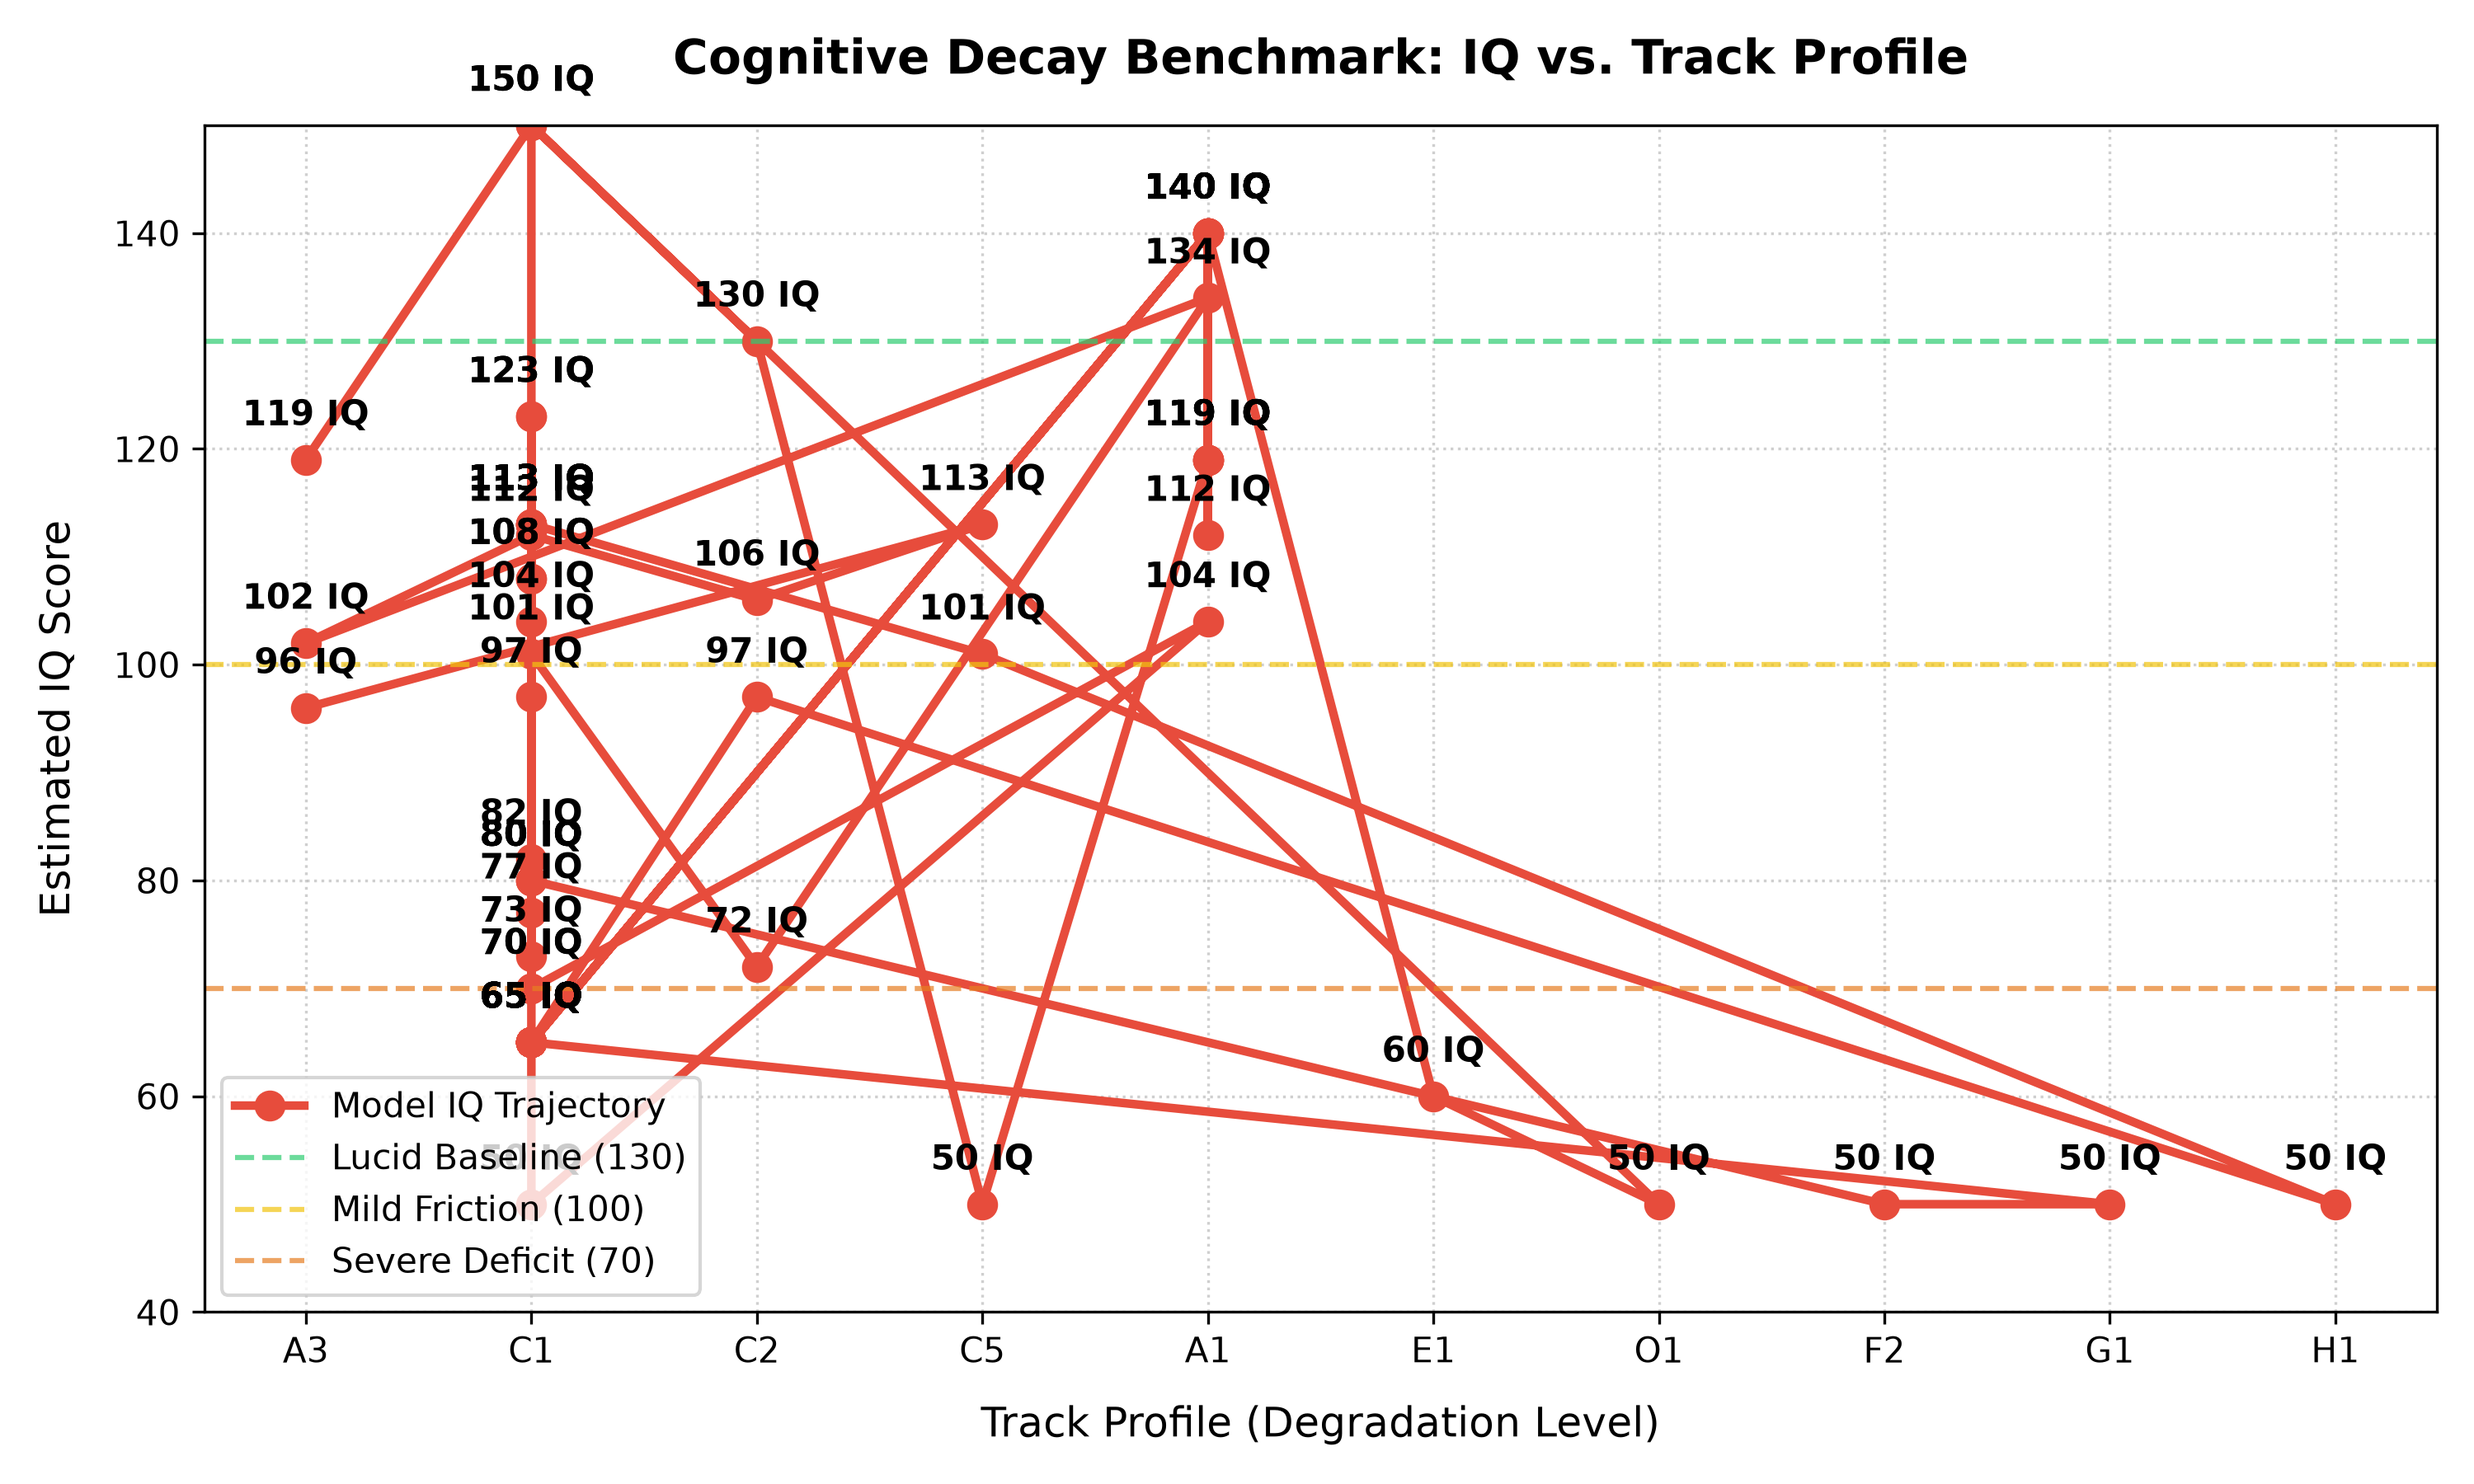
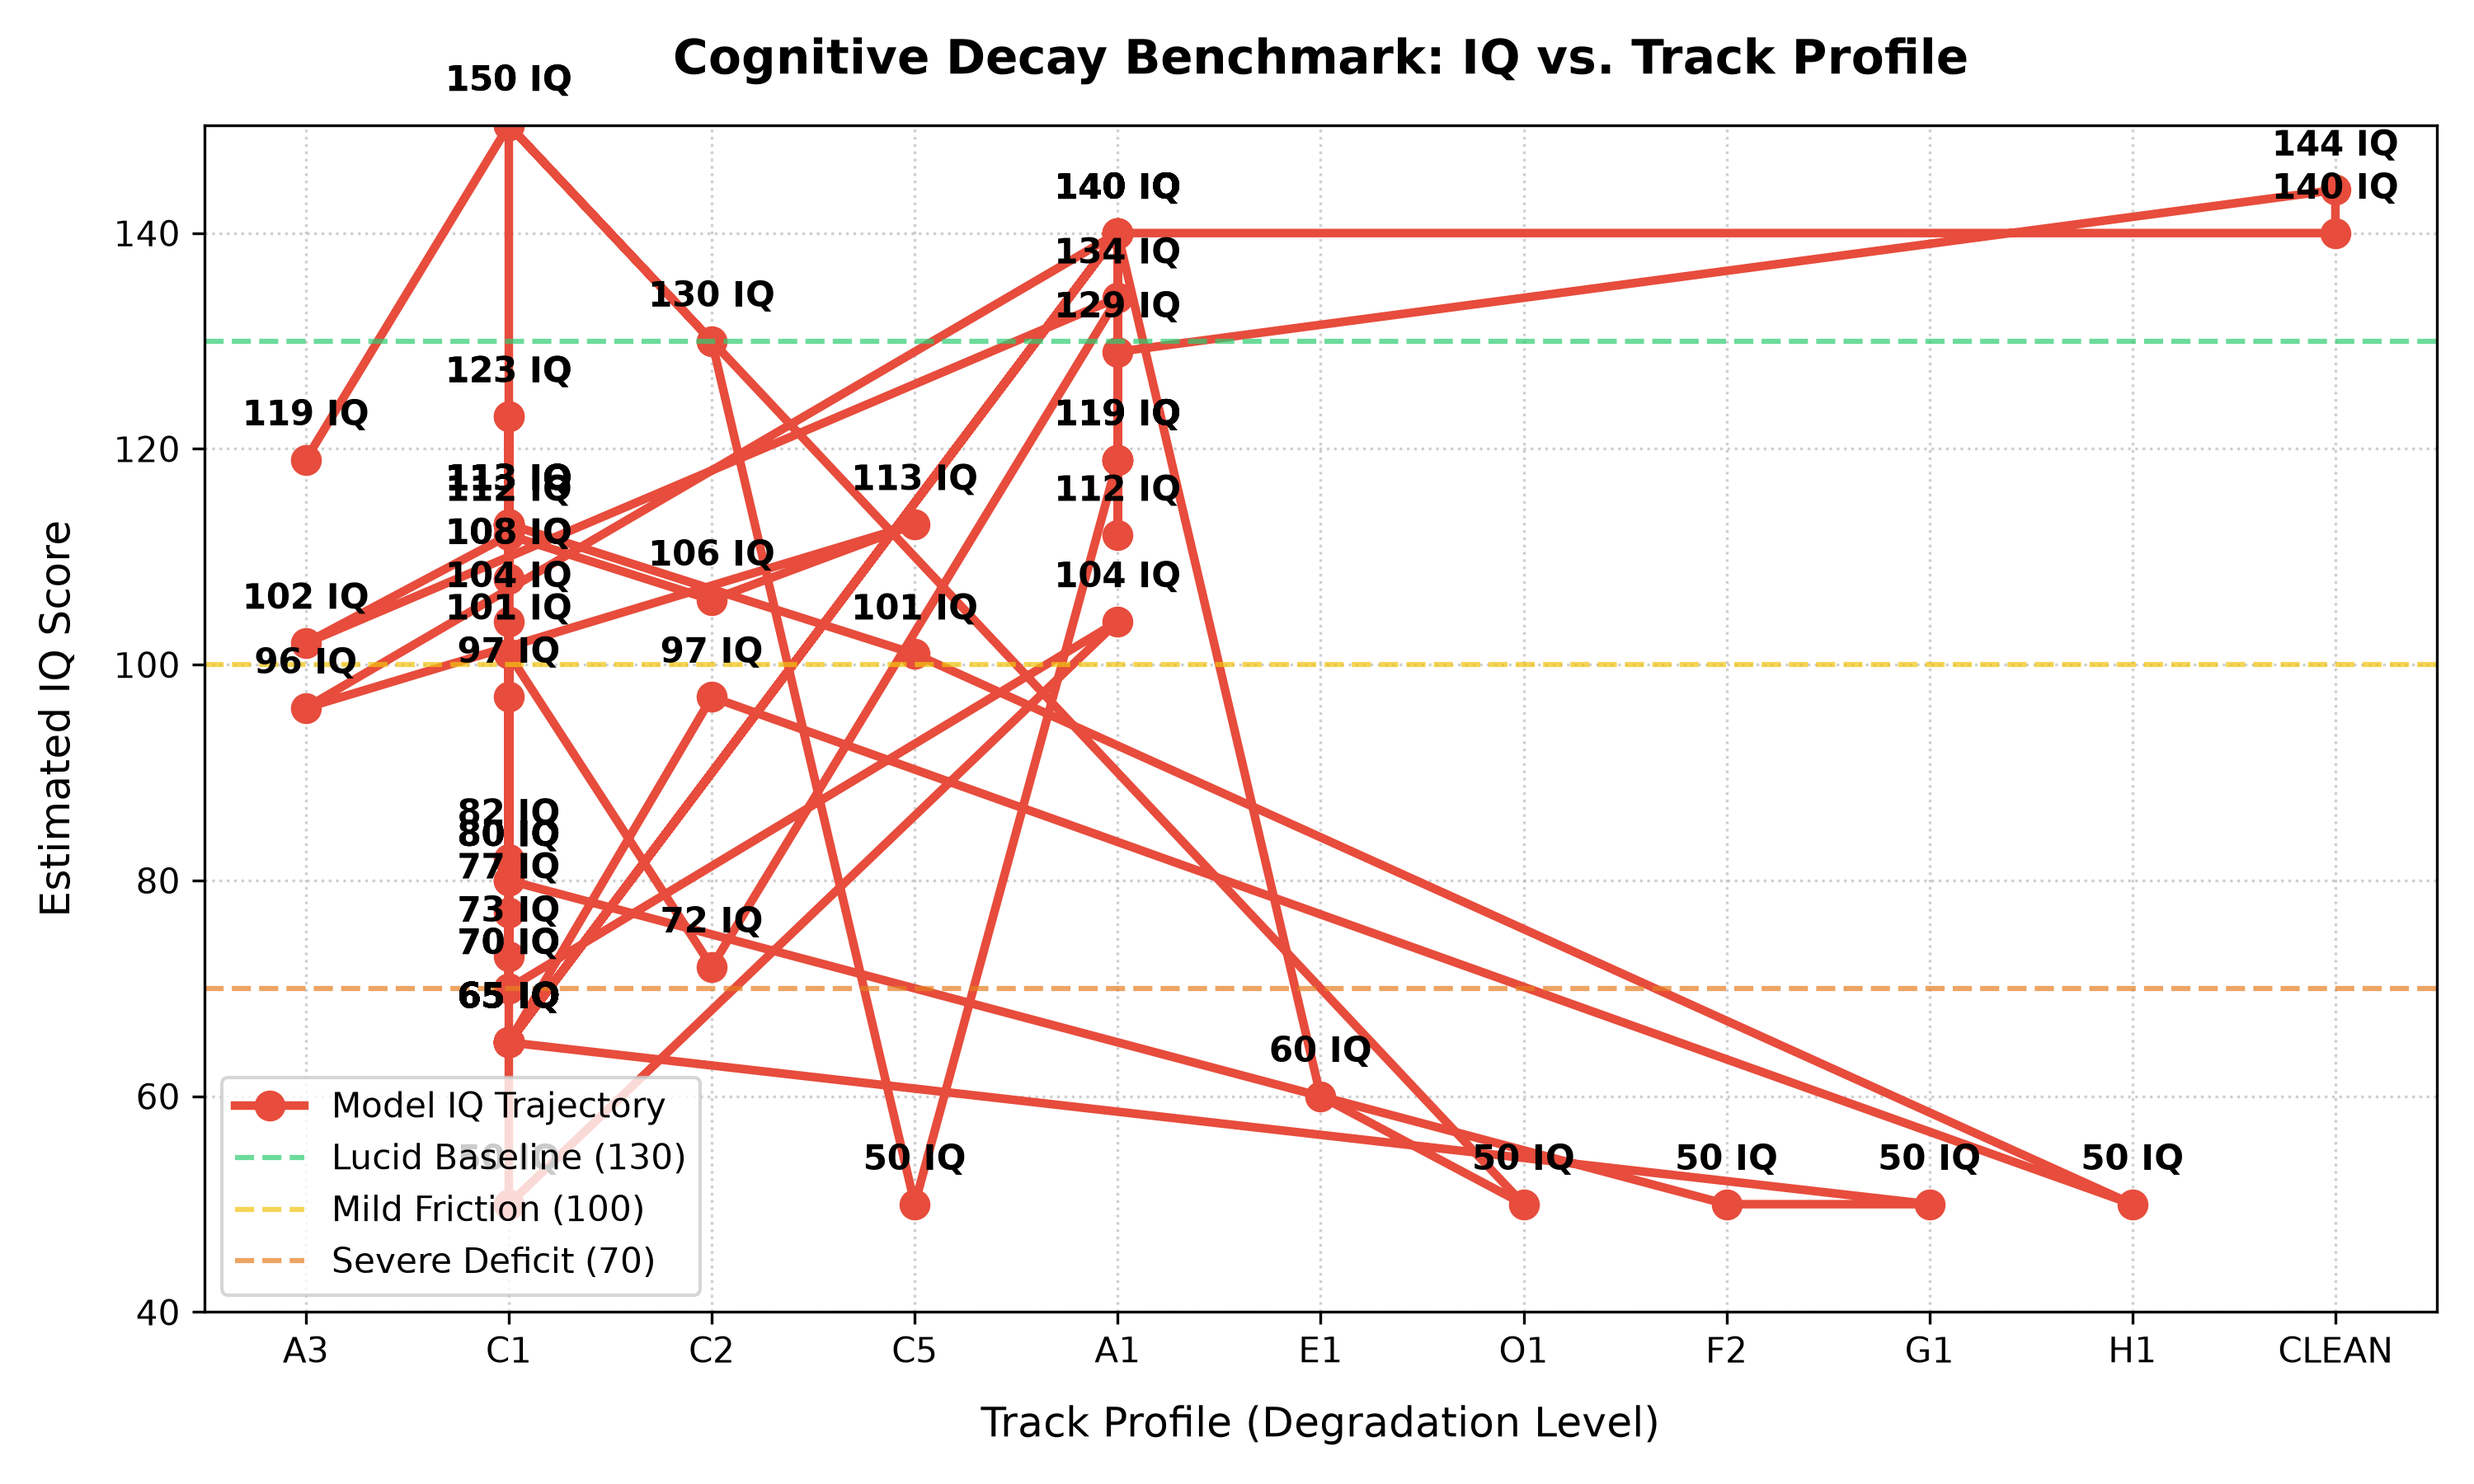
reset_graphs

diff --git a/tests/test_paths.py b/tests/test_paths.py
@@ -1,0 +1,66 @@
+"""Unit tests for ``eateot.paths.clear_charts`` (the lab's CLEAR GRAPHS action).
+
+Redirects ``EATEOT_DATA_DIR`` at a temp folder so the tests never touch the
+real ``outputs/`` directory, then reloads the module so its constants resolve
+against the override.
+"""
+
+import importlib
+import os
+import sys
+import tempfile
+import unittest
+from pathlib import Path
+from unittest import mock
+
+# tests/test_paths.py -> repo root (so `import eateot` works without install).
+ROOT = Path(__file__).resolve().parents[1]
+if str(ROOT) not in sys.path:
+    sys.path.insert(0, str(ROOT))
+
+import eateot.paths as paths
+
+
+class TestClearCharts(unittest.TestCase):
+    def setUp(self):
+        self.tmp = tempfile.TemporaryDirectory()
+        self.addCleanup(self.tmp.cleanup)
+        self.env = mock.patch.dict(
+            os.environ, {"EATEOT_DATA_DIR": self.tmp.name}, clear=False
+        )
+        self.env.start()
+        self.addCleanup(self.env.stop)
+        importlib.reload(paths)  # re-resolve DATA_DIR / CHART_FILES
+
+    def tearDown(self):
+        importlib.reload(paths)  # restore default DATA_DIR for other tests
+
+    def test_removes_existing_charts_only(self):
+        existing = paths.CHART_FILES[:3]
+        for chart in existing:
+            Path(chart).write_text("stale chart", encoding="utf-8")
+        missing = paths.CHART_FILES[3]
+        self.assertFalse(Path(missing).exists())
+
+        removed = paths.clear_charts()
+
+        self.assertEqual(sorted(removed), sorted(existing))
+        for chart in existing:
+            self.assertFalse(Path(chart).exists())
+        self.assertFalse(Path(missing).exists())
+
+    def test_no_charts_returns_empty(self):
+        self.assertEqual(paths.clear_charts(), [])
+
+    def test_chart_list_covers_all_generated_pngs(self):
+        # Every study chart is a *_png constant; keep the list in sync.
+        png_constants = [
+            "IMG_FILE", "COMPARISON_PNG", "RESTORE_PNG", "TRAJECTORY_PNG",
+            "RESERVE_PNG", "TRIP_PNG", "DRUG_REPORT_PNG", "SENSITIVITY_PNG",
+        ]
+        expected = {getattr(paths, name) for name in png_constants}
+        self.assertEqual(set(paths.CHART_FILES), expected)
+
+
+if __name__ == "__main__":
+    unittest.main()

diff --git a/apps/lab.py b/apps/lab.py
@@ -307,7 +307,7 @@ def main():
         print("\n────────── ⚙  SETTINGS ──────────")
         print("  [D] Decay Multiplier  [T] Target Sub-Network")
         print("  [F] Flicker  [S] Sirens  [L] Lucidity Surge")
-        print("  [R] 🔄 FULL RESET  [X] Exit")
+        print("  [W] 🗑 CLEAR GRAPHS  [R] 🔄 FULL RESET  [X] Exit")
         print("==================================================================")
 
         track_choice = input("▸ ").strip().upper()
@@ -326,6 +326,21 @@ def main():
             lab.restore_clean_state()
             print("\n[✓] FULL RESET: settings, toggles, weights & drug cleared.\n")
             input("Press ENTER to continue...")
+            continue
+        elif track_choice == "W":
+            # Delete every generated chart PNG so studies can be re-run for
+            # fresh graphs. Telemetry logs + reports are kept.
+            from eateot.paths import clear_charts
+            removed = clear_charts()
+            if removed:
+                print(f"\n[✓] CLEARED GRAPHS: removed {len(removed)} chart(s).\n")
+                for chart in removed:
+                    print(f"    🗑 {chart}")
+                print("\nRun a study ([1]–[8]) to generate fresh graphs.")
+            else:
+                print("\n[✓] No generated charts to clear — run a study ([1]–[8]) to create some.")
+            print()
+            input("Press ENTER to return to menu...")
             continue
 
         # ── Settings ──────────────────────────────────────────────────────
@@ -646,7 +661,7 @@ def main():
             input("Press ENTER to return to menu...")
             continue
         else:
-            print("[-] Invalid selection! Type a track name (A1, C5…), a letter command (I, Q, E, P, G, D, T, F, S, L, R, X), or a study number (1–8).")
+            print("[-] Invalid selection! Type a track name (A1, C5…), a letter command (I, Q, E, P, G, D, T, F, S, L, W, R, X), or a study number (1–8).")
             continue
 
 

diff --git a/src/eateot/paths.py b/src/eateot/paths.py
@@ -45,6 +45,36 @@ SENSITIVITY_MD = str(DATA_DIR / "sensitivity_report.md")
 SENSITIVITY_JSON = str(DATA_DIR / "sensitivity_report.json")
 SENSITIVITY_PNG = str(DATA_DIR / "sensitivity_decay.png")
 
+# Every chart image generated by the study/report apps. Kept in one place so
+# ``clear_charts`` (the lab's CLEAR GRAPHS action) can wipe all graphs at once.
+CHART_FILES = [
+    IMG_FILE,
+    COMPARISON_PNG,
+    RESTORE_PNG,
+    TRAJECTORY_PNG,
+    RESERVE_PNG,
+    TRIP_PNG,
+    DRUG_REPORT_PNG,
+    SENSITIVITY_PNG,
+]
+
+
+def clear_charts() -> list[str]:
+    """Delete every generated chart image in ``DATA_DIR``.
+
+    Returns the paths actually removed so callers can report them. Telemetry
+    logs and report files (``.md``/``.json``) are left untouched — re-running a
+    study regenerates its chart from scratch.
+    """
+    removed = []
+    for chart in CHART_FILES:
+        try:
+            os.remove(chart)
+        except FileNotFoundError:
+            continue
+        removed.append(chart)
+    return removed
+
 
 def ensure_data_dir() -> Path:
     """Create the data directory if missing and return it."""

diff --git a/README.md b/README.md
@@ -73,6 +73,7 @@ make compare        # cross-model IQ comparison report + chart
 make compare QUESTIONNAIRE=iq_battery_mini  # use a different questionnaire
 make plot           # decay curve chart
 make plot-reset     # wipe telemetry + chart
+make charts-clean   # delete all generated chart PNGs (keeps telemetry + reports)
 make dash           # Streamlit dashboard
 make restore        # dose-response restoration study (IQ vs treatment dose)
 make trajectory     # full A1→Q1 decline trajectory + decay chart
@@ -117,6 +118,11 @@ drug from dependent menus — pick a *class* (hallucinogen, dissociative, …), 
 drug within that class, then a dose — and optionally stack more drugs into a combo
 before running the battery. The deployed spec is printed (resolved primitives,
 subnetwork, layer window) and becomes the session's active drug.
+
+From the lab's **Settings** section, `[W] 🗑 CLEAR GRAPHS` deletes every
+generated chart PNG in `outputs/` (telemetry logs and report files are kept), so
+you can wipe the graphs and regenerate fresh ones. `make charts-clean` does the
+same from the shell without entering the lab.
 
 ## Experimental: progressive in-generation degradation
 
